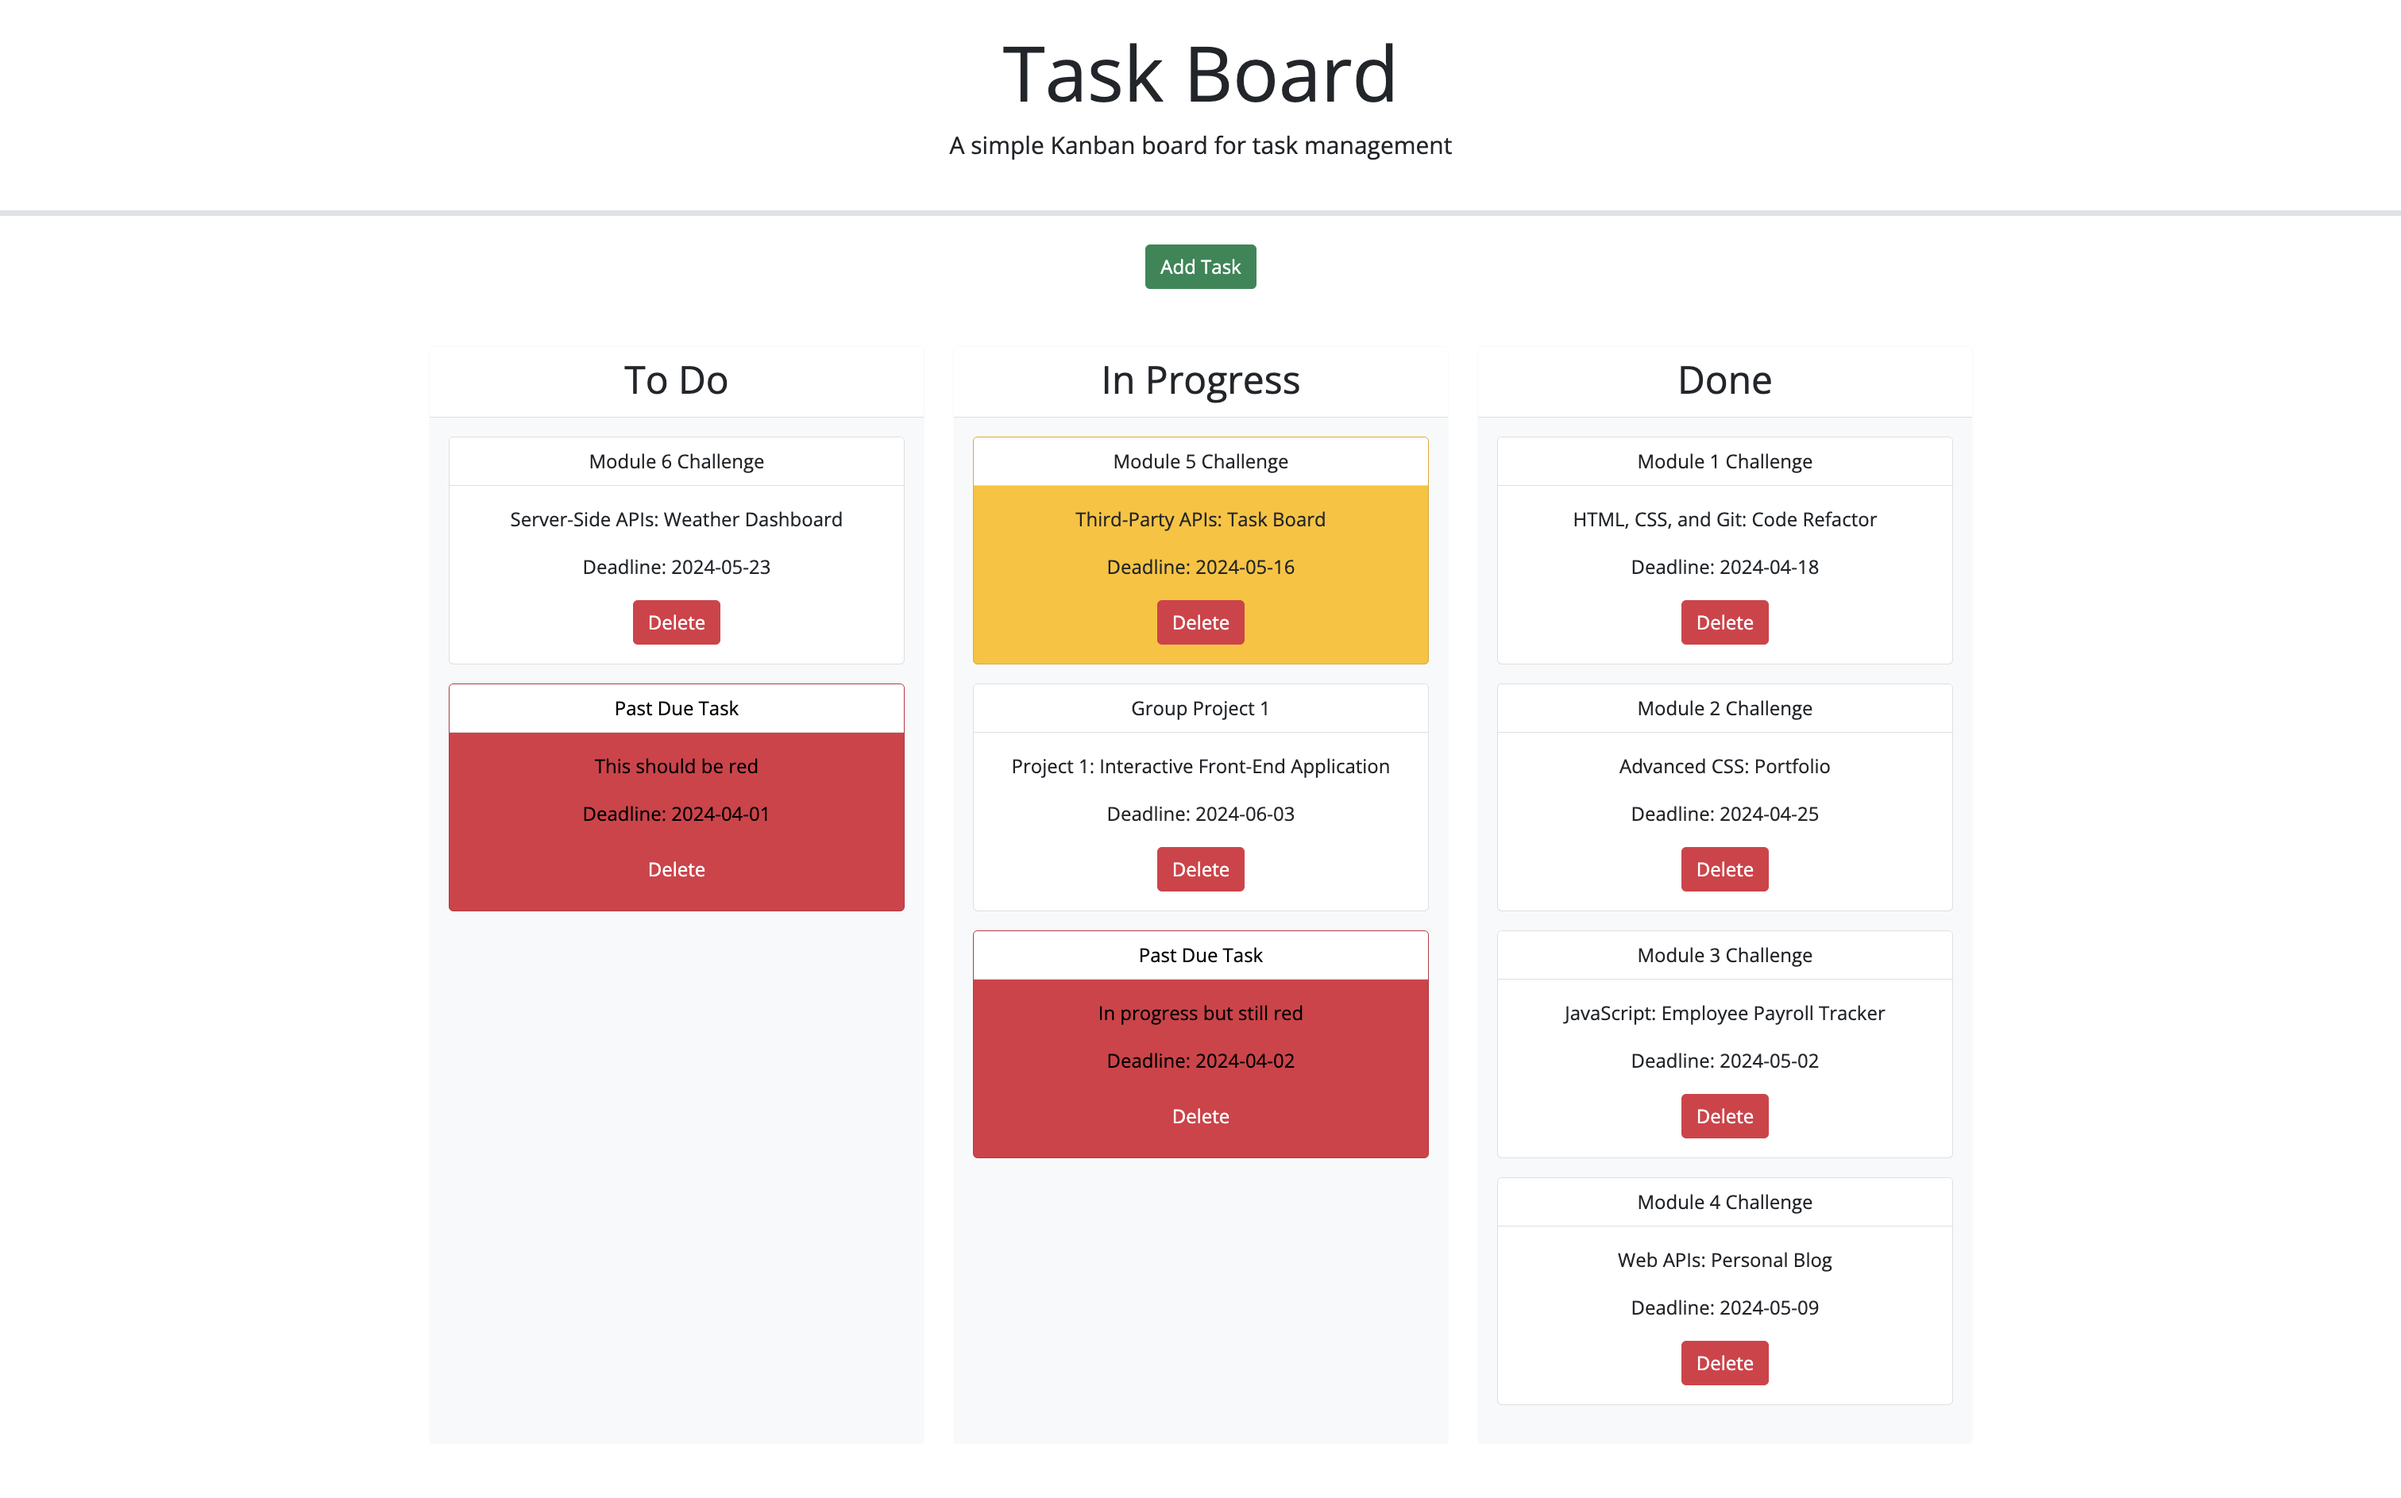
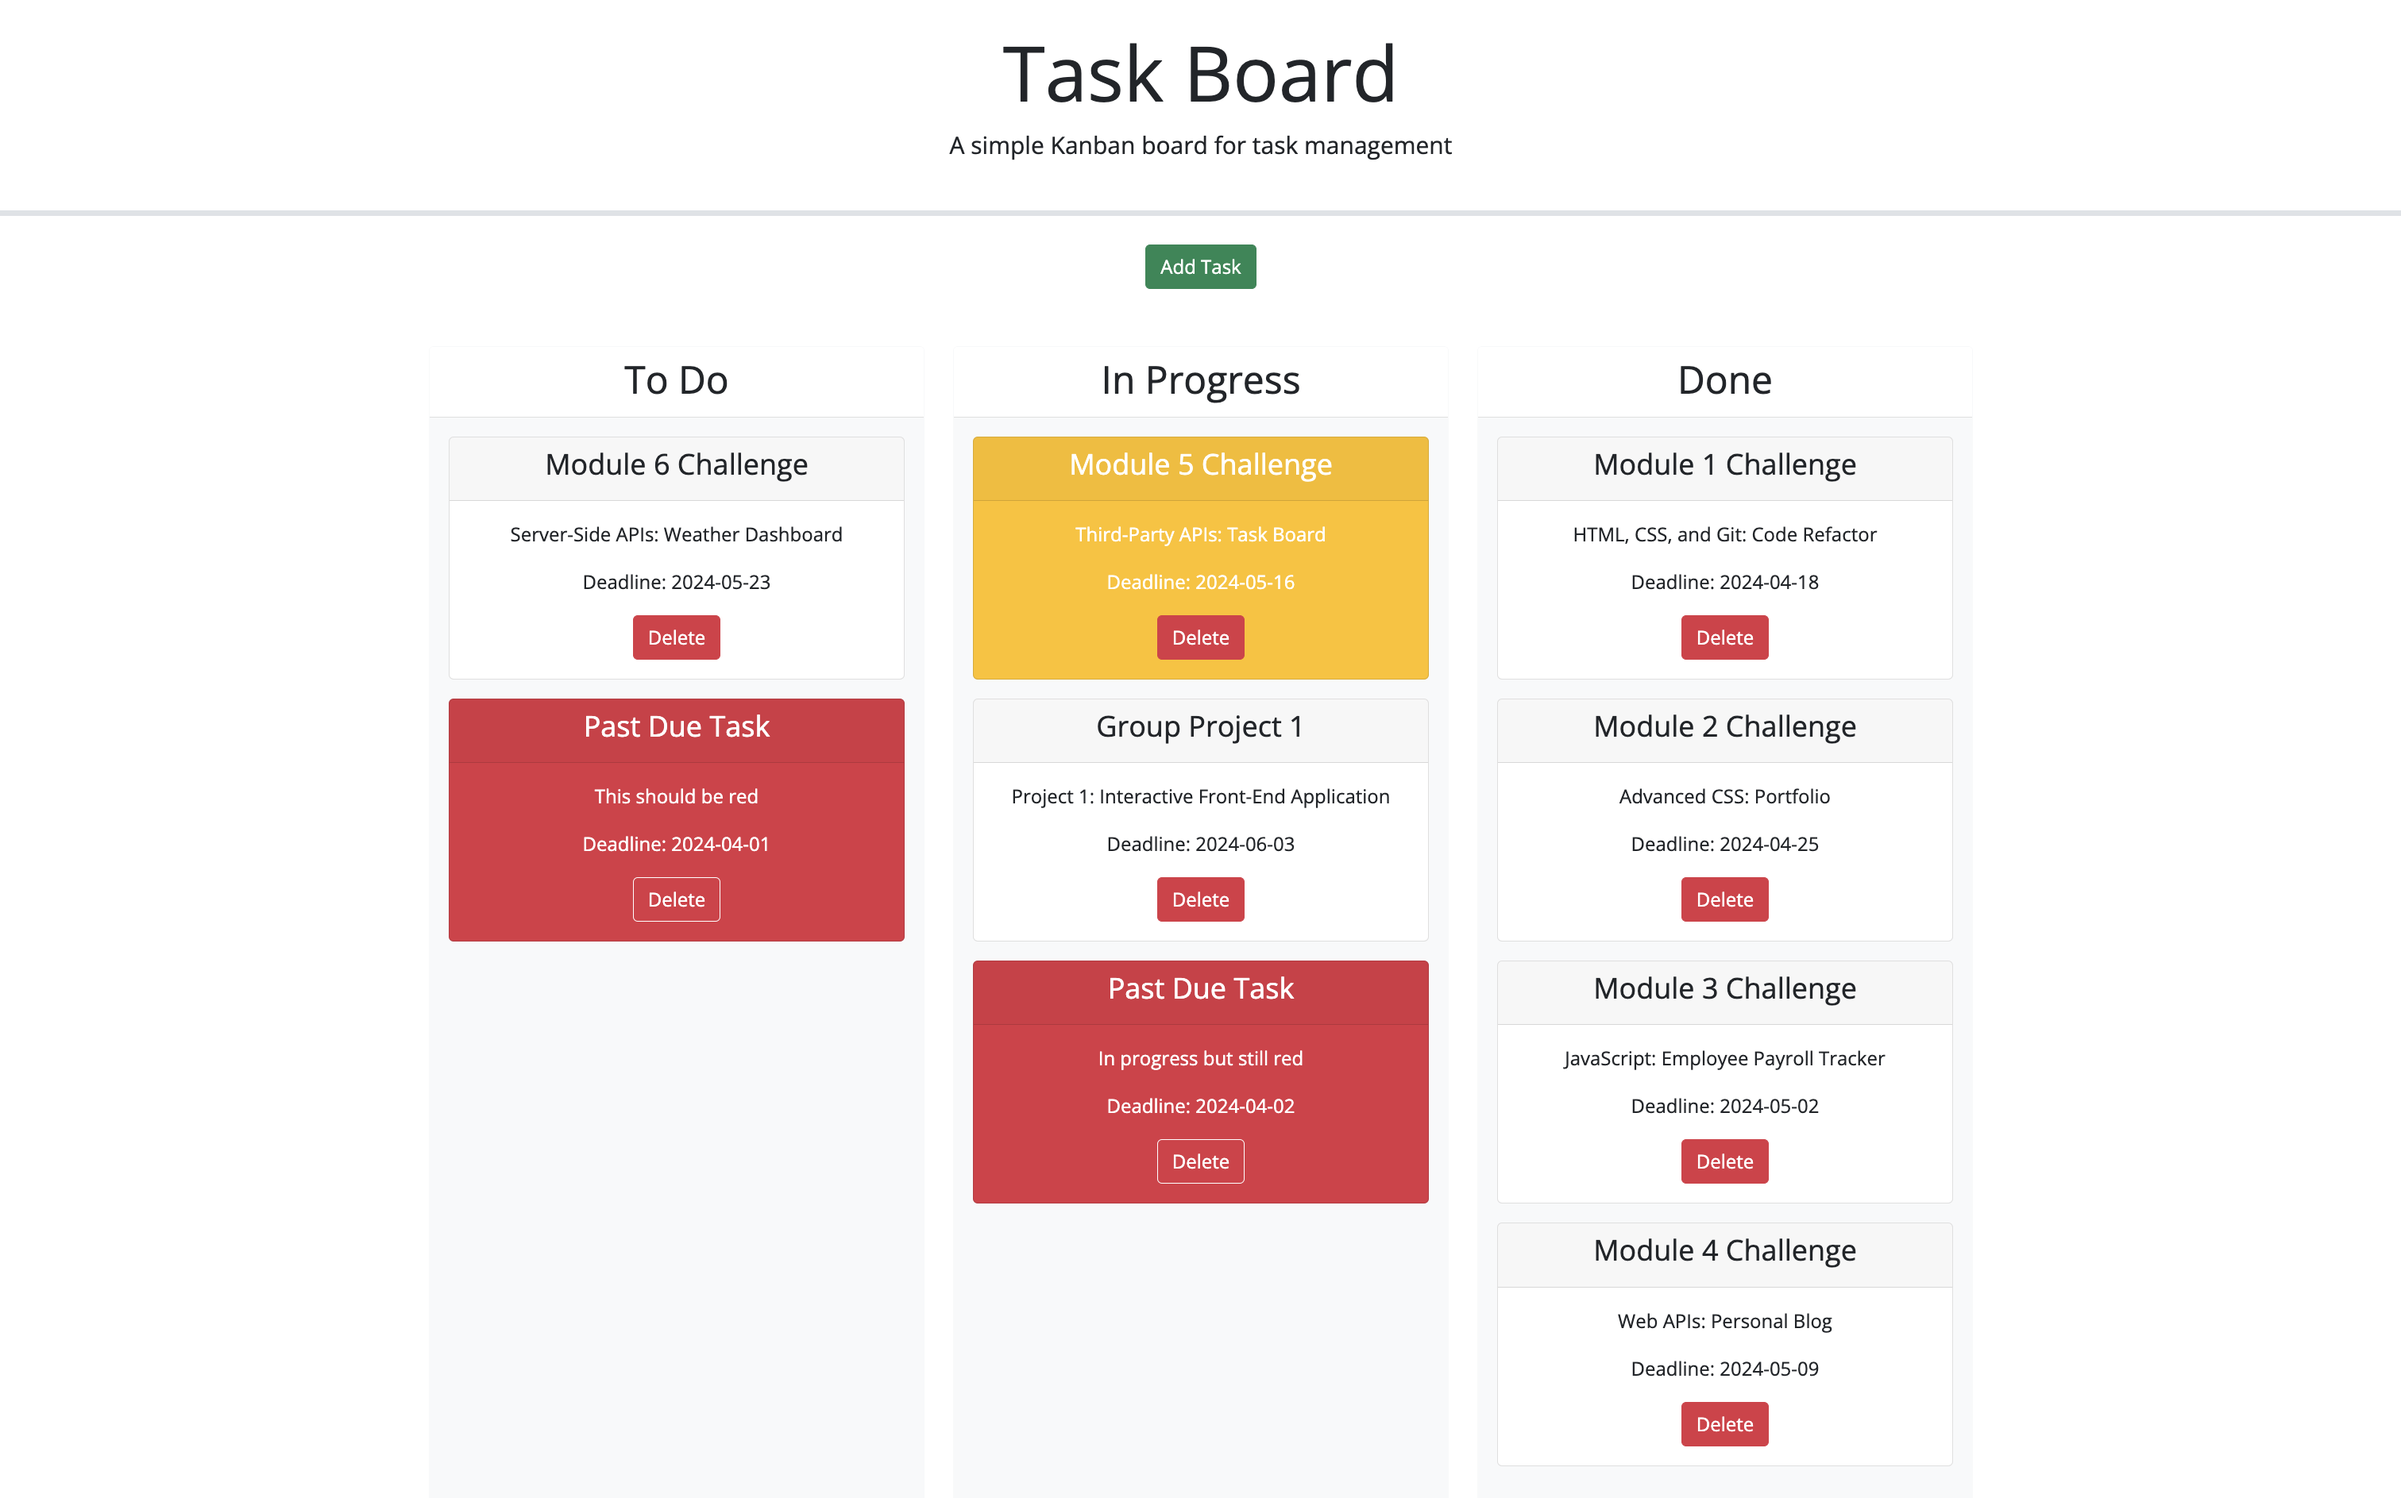
Update task card creation and deadline class assignment

Changed region(s): [[0.4042, 0.2766, 0.6219, 0.8299], [0.653, 0.3074, 0.7774, 0.9836], [0.1866, 0.3074, 0.3731, 0.6455]]

diff --git a/assets/js/script.js b/assets/js/script.js
@@ -13,22 +13,28 @@ function createTaskCard(task) {
     // Determine the deadline class based on the task deadline.
     // White if done, yellow if due today or within 3 days, red if overdue.
     let deadlineClass = '';
+    let textClass = '';
+    let buttonClass = 'btn-danger';
     const now = dayjs();
     if (task.status === 'done') {
         deadlineClass = 'bg-white';
+        textClass = 'text-dark';
     } else if (dayjs(task.deadline).isSame(now, 'day') || (dayjs(task.deadline).isAfter(now) && dayjs(task.deadline).isBefore(now.add(3, 'day')))) {
         deadlineClass = 'bg-warning';
+        textClass = 'text-white';
     } else if (dayjs(task.deadline).isBefore(now)) {
-        deadlineClass = 'bg-danger text-black';
+        deadlineClass = 'bg-danger';
+        textClass = 'text-white';
+        buttonClass = 'btn-danger text-white border-white';
     }
 
     // Return the HTML for the task card
     return `<div id="task-${task.id}" class="task-card card mb-3 ${deadlineClass}">
-            <div class="card-header bg-white">${task.title}</div>
+            <div class="card-header ${textClass}"><h4>${task.title}</h4></div>
         <div class="card-body">
-            <p class="card-text">${task.description}</p>
-            <p class="card-text">Deadline: ${task.deadline}</p>
-            <button class="btn btn-danger delete-task" data-id="${task.id}">Delete</button>
+            <p class="card-text ${textClass}">${task.description}</p>
+            <p class="card-text ${textClass}">Deadline: ${task.deadline}</p>
+            <button class="btn ${buttonClass} delete-task" data-id="${task.id}">Delete</button>
         </div>
     </div>`;
 }

diff --git a/README.md b/README.md
@@ -6,7 +6,7 @@
 
 ## Overview
 
-This repository contains the code for a simple Kanban-style task board application that allows project teams to manage their tasks. The application provides features for adding, updating, and deleting tasks, as well as dragging and dropping tasks between different progress states. Tasks are persisted using localStorage and are color-coded based on their deadlines using Day.js.
+This repository contains the code for a simple Kanban-style task board application that allows project teams to manage their tasks. The application provides features for adding, updating, and deleting tasks, as well as dragging and dropping tasks between different progress states. Tasks are persisted using localStorage and are color-coded based on their due date using Day.js.
 
 ## File Structure
 
@@ -30,20 +30,20 @@ To run the application, go to the provided URL or clone the repo and open `index
 
 This page includes:
 
-- **Add Task Button**: Opens a modal dialog to add a new task with a title, description, and deadline.
+- **Add Task Button**: Opens a modal dialog to add a new task with a title, description, and due date.
 - **Task Columns**: Displays tasks in three columns based on their progress state:
   - **To Do**: Tasks that are not yet started.
   - **In Progress**: Tasks that are currently being worked on.
   - **Done**: Tasks that are completed.
-- **Task Cards**: Each task is displayed as a card within the appropriate column, with color coding based on the task's deadline:
-  - Yellow for tasks nearing their deadline.
+- **Task Cards**: Each task is displayed as a card within the appropriate column, with color coding based on the task's due date:
+  - Yellow for tasks nearing their due date (within 3 days).
   - Red for overdue tasks.
 
 ### Task Form Modal
 
 - **Title**: Input field for the task title.
+- **Task Due Date**: Input field for the task due date (with a date picker).
 - **Description**: Text area for the task description.
-- **Deadline Date**: Input field for the task deadline date (with a date picker).
 - **Save Button**: Saves the task to localStorage and updates the task board.
 
 ## Known Issues
